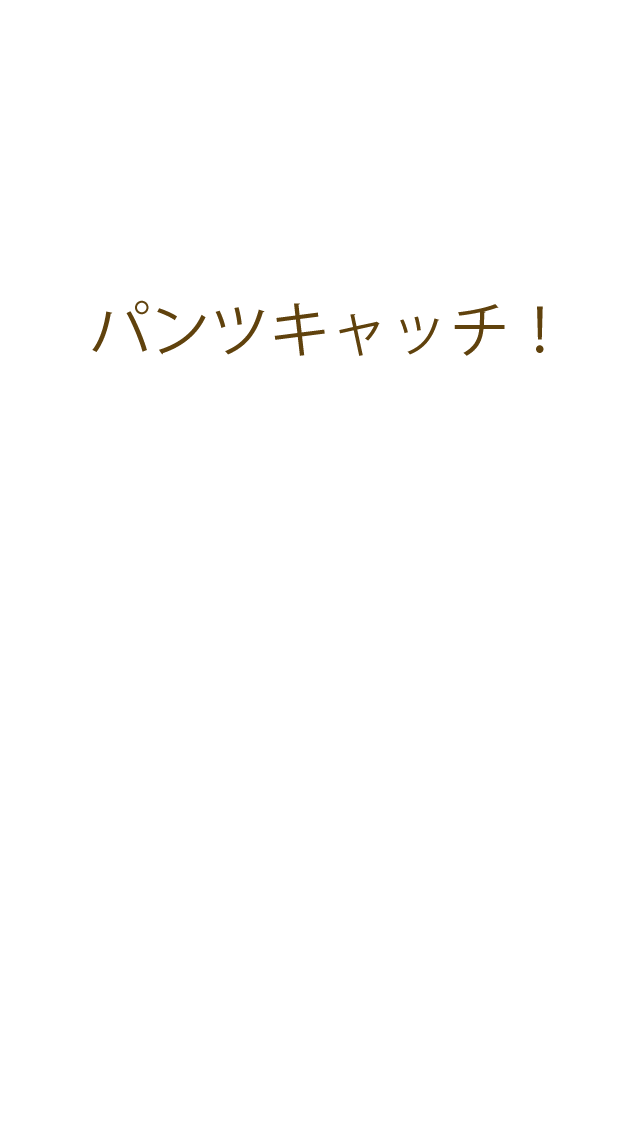
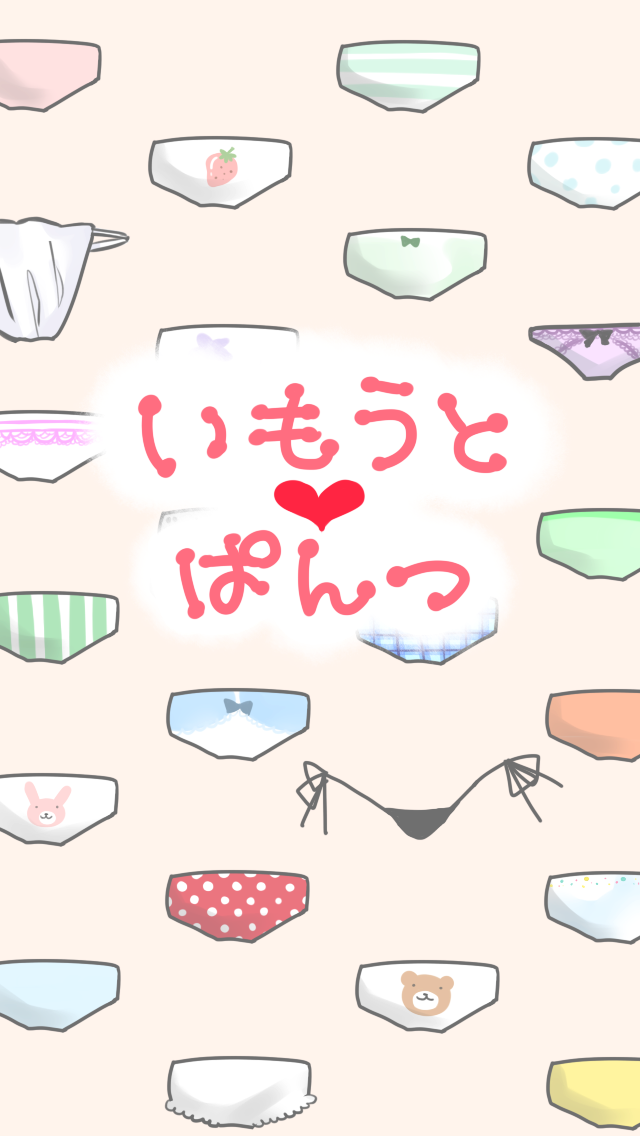
発表バージョン？

diff --git a/Classes/GameScene.cpp b/Classes/GameScene.cpp
@@ -7,7 +7,7 @@
 //
 
 #include "GameScene.h"
-
+#include "SimpleAudioEngine.h"
 #define WINDOW_SIZE CCDirector::sharedDirector()->getWinSize()
 
 #define MOVE_SPEED 15
@@ -53,14 +53,19 @@ bool GameScene::init() {
     
     gameOverLabel->setVisible(false);
     
-    mainChara = CCSprite::create("charGet.png");
+    mainChara = CCSprite::create("charlclle.png");
     mainChara->setPosition(ccp(WINDOW_SIZE.width/2,300));
     addChild(mainChara);
     
     pantsArray = CCArray::create();
     pantsArray->retain();
     
-    restart =CCMenuItemLabel::create(CCLabelTTF::create("touch to start!", "Thonburi", 100), this,menu_selector(GameScene::restartGame));
+
+    //スペルミス
+    CCSprite* pSelectedSprite = CCSprite::create("StartBrn.png");
+    restart= CCMenuItemSprite::create(pSelectedSprite, pSelectedSprite, this, menu_selector(GameScene::restartGame));
+    
+    //restart =CCMenuItemLabel::create(CCLabelTTF::create("touch to start!", "Thonburi", 100), this,menu_selector(GameScene::restartGame));
     
     CCMenu* pMenu = CCMenu::create(restart, NULL);
     
@@ -82,6 +87,10 @@ void GameScene::restartGame(){
     scheduleUpdate();
     gameOverLabel->setVisible(false);
     restart->setVisible(false);
+    
+    mainChara->setTexture(CCTextureCache::sharedTextureCache()->addImage("charGet.png"));
+    
+                  CocosDenshion::SimpleAudioEngine::sharedEngine()->playEffect("hentai.wav");
 }
 
 void GameScene::update(float dt) {
@@ -107,7 +116,7 @@ void GameScene::update(float dt) {
     collisionDetection();
     //    int hoge=tickCount%60;
     
-    if (tickCount%60==0){
+    if (tickCount%40==0){
         
         spawnPants();
     }
@@ -156,7 +165,7 @@ void GameScene::spawnPants(){
 void GameScene::fallDownPants(CCSprite *pants){
     
     
-    CCMoveTo *move = CCMoveTo::create(3,ccp(pants->getPosition().x, -100));
+    CCMoveTo *move = CCMoveTo::create(3.5,ccp(pants->getPosition().x, -100));
     
     CCCallFunc *func = CCCallFunc::create(this, callfunc_selector(GameScene::gameOver));
     CCSequence *seq = CCSequence::create(move,func,NULL);
@@ -184,6 +193,7 @@ bool GameScene::collisionDetection(){
             sprintf(scoreStr, "%d", score);
             scoreLabel->setString(scoreStr);
             
+              CocosDenshion::SimpleAudioEngine::sharedEngine()->playEffect("hentai.wav");
             return true;
         }
     }
@@ -200,6 +210,8 @@ void GameScene::gameOver(){
     restart->setVisible(true);
     unscheduleUpdate();
     
+    
+    mainChara->setTexture(CCTextureCache::sharedTextureCache()->addImage("charlclle.png"));
     
 
     

diff --git a/Classes/GameScene.h b/Classes/GameScene.h
@@ -39,8 +39,8 @@ private:
     void fallDownPants(CCSprite *pants);
     void gameOver();
     CCLabelTTF* scoreLabel;
-    
-    CCMenuItemLabel *restart;
+        CCMenuItemSprite *restart;
+    //CCMenuItemLabel *restart;
     void restartGame();
 
     CCLabelTTF* gameOverLabel;
